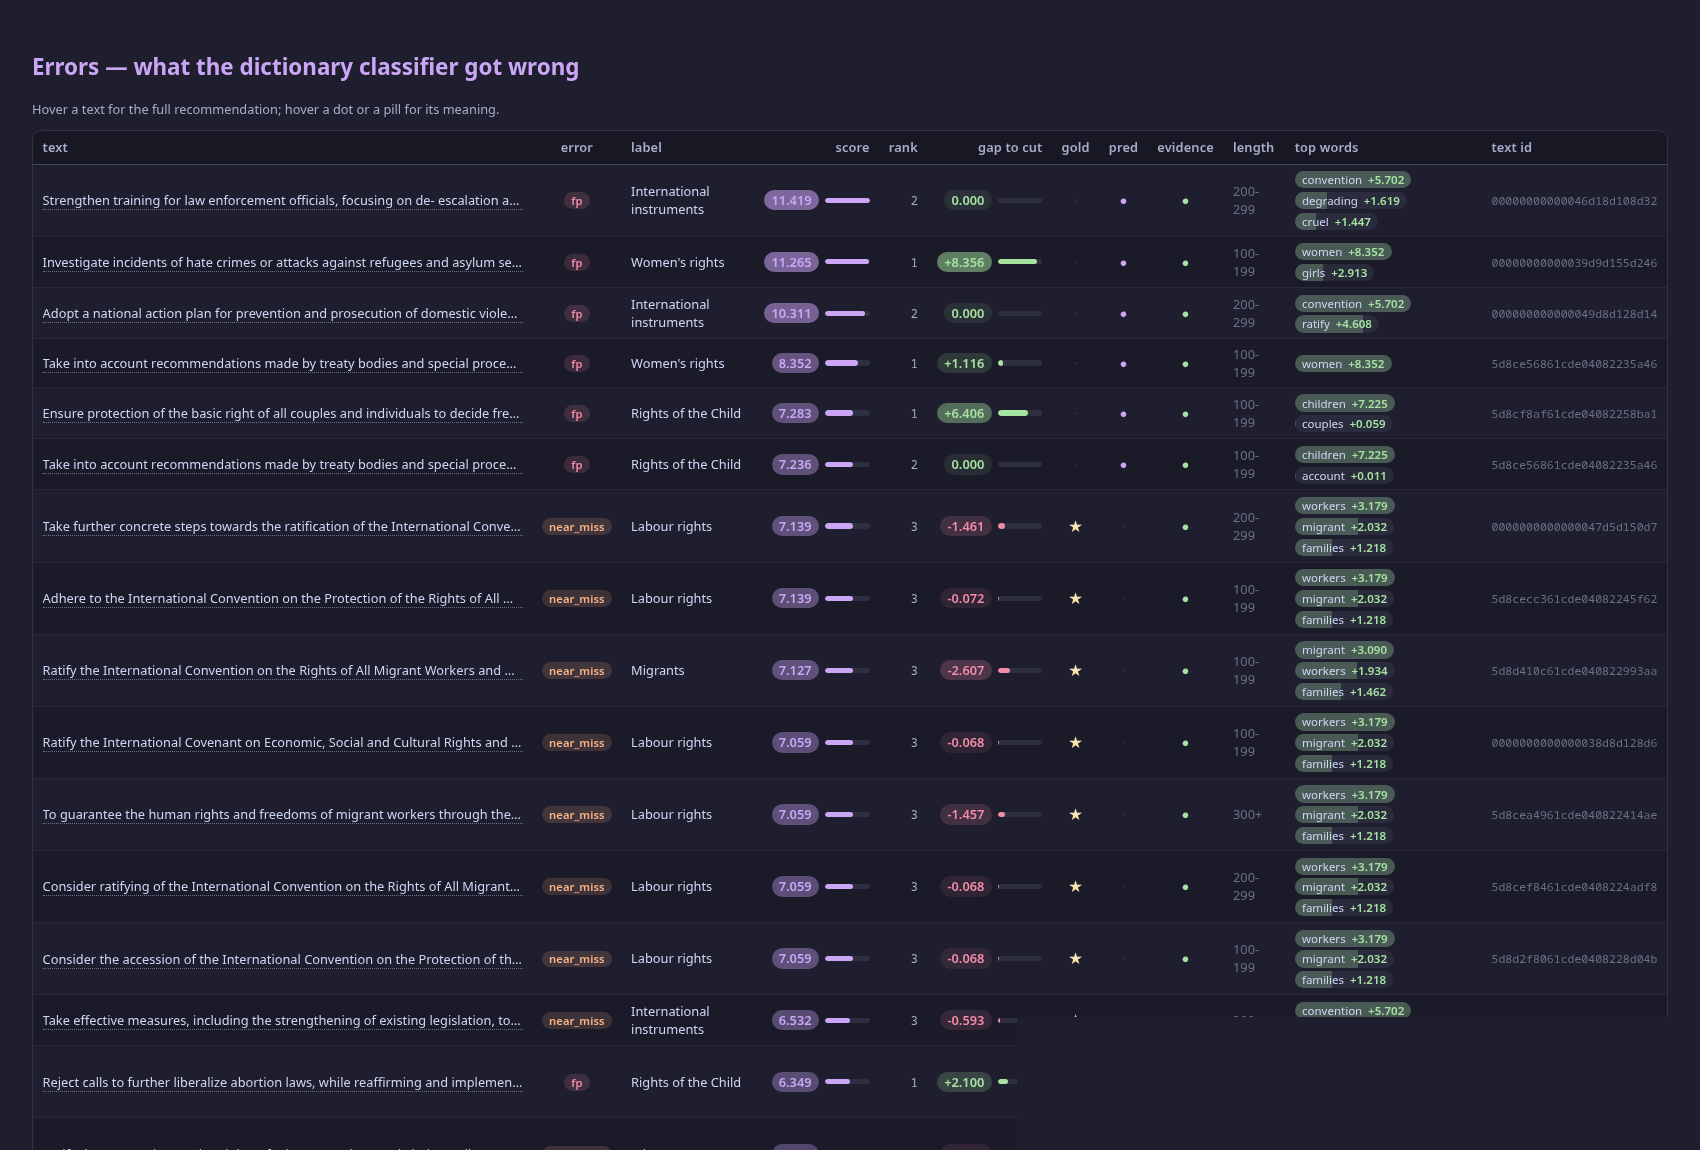
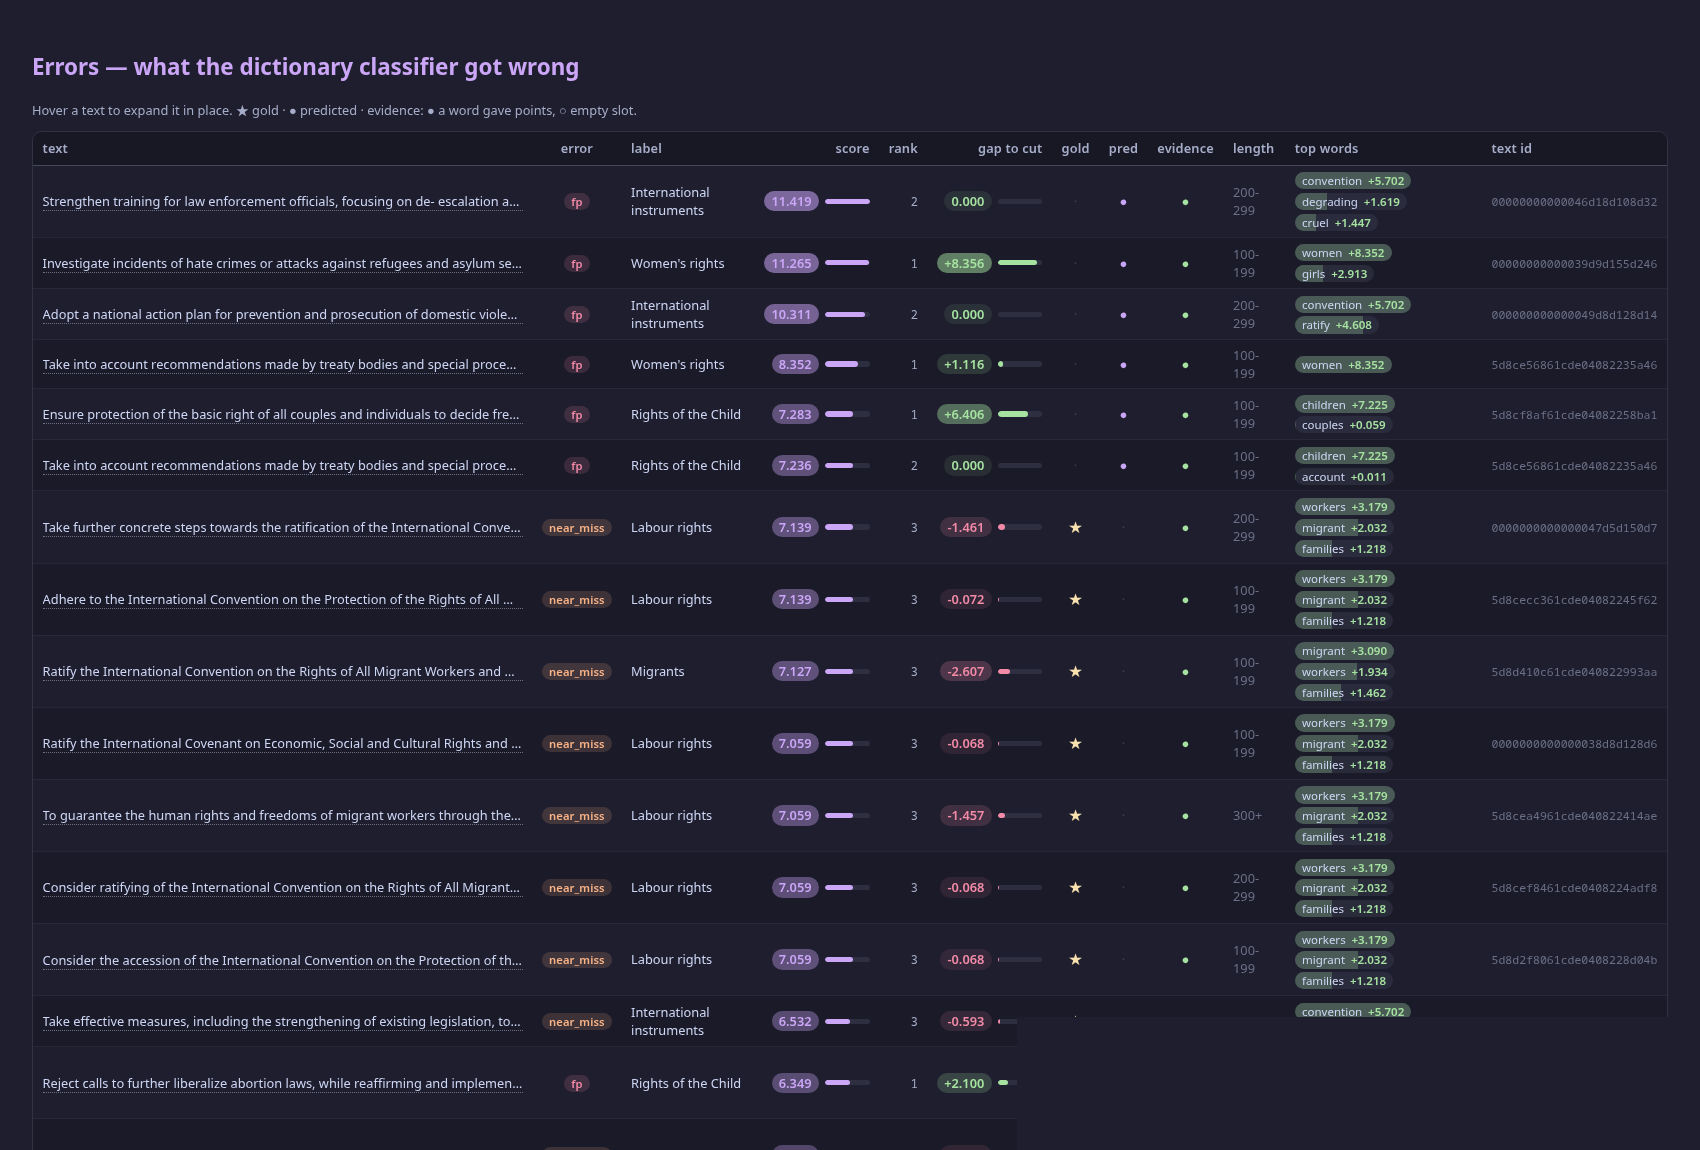
Fix: expand the error-view text in place instead of a tooltip

diff --git a/tools/error_app.css b/tools/error_app.css
@@ -39,7 +39,9 @@ a { color: var(--ctp-blue); }
 .ev-table tbody tr:hover { background: rgba(49, 50, 68, 0.55); }
 .ev-table tbody tr:last-child td { border-bottom: 0; }
 .ev-empty { color: var(--ctp-overlay0); text-align: center; padding: 0.8rem; }
-.ev-text { display: inline-block; max-width: 30rem; overflow: hidden; text-overflow: ellipsis; white-space: nowrap; vertical-align: middle; cursor: help; border-bottom: 1px dotted var(--ctp-overlay0); }
+.ev-text { display: inline-block; max-width: 30rem; overflow: hidden; text-overflow: ellipsis; white-space: nowrap; vertical-align: middle; cursor: zoom-in; border-bottom: 1px dotted var(--ctp-overlay0); }
+.ev-text:hover { max-width: 44rem; overflow: visible; text-overflow: clip; white-space: normal; cursor: zoom-out; }
+.ev-table tbody tr:hover .ev-text { border-bottom-color: var(--ctp-blue); }
 .ev-id { color: var(--ctp-overlay0); font-family: "JetBrains Mono", "Fira Code", monospace; font-size: 0.72rem; }
 .ev-muted { color: var(--ctp-overlay0); }
 .ev-rank { color: var(--ctp-subtext0); font-family: "JetBrains Mono", "Fira Code", monospace; font-size: 0.74rem; }

diff --git a/tools/error_app.py b/tools/error_app.py
@@ -148,52 +148,32 @@ def _esc(value: object) -> str:
     return html_lib.escape(str(value), quote=True)
 
 
-def _tooltip_text(text: str, limit: int = 130) -> str:
-    """The text as a truncated, hoverable cell (the full text is the tooltip)."""
-    cleaned = " ".join(text.split())
-    shown = cleaned if len(cleaned) <= limit else cleaned[: limit - 1].rstrip() + "…"
-    return f'<span class="ev-text" title="{_esc(cleaned)}">{_esc(shown)}</span>'
+def _expandable_text(text: str) -> str:
+    """The full text in a cell clipped by CSS; hovering it expands it in place."""
+    return f'<span class="ev-text">{_esc(" ".join(text.split()))}</span>'
 
 
-def _dot(active: bool, tone: str, *, on: str = "●", off: str = "·", title: str = "") -> str:
+def _dot(active: bool, tone: str, *, on: str = "●", off: str = "·") -> str:
     """A boolean as a coloured dot (a read-only indicator, never a checkbox)."""
     css = f"ev-dot ev-dot-{tone}" if active else "ev-dot ev-dot-off"
-    return f'<span class="{css}" title="{_esc(title)}">{on if active else off}</span>'
+    return f'<span class="{css}">{on if active else off}</span>'
 
 
 def _gold_dot(active: bool) -> str:
     """The gold flag: a gold star, or a dim dot."""
-    return _dot(
-        active,
-        "gold",
-        on="★",
-        off="·",
-        title="gold label" if active else "not a gold label",
-    )
+    return _dot(active, "gold", on="★", off="·")
 
 
 def _predicted_dot(active: bool) -> str:
     """The prediction flag: a mauve dot, or a dim dot."""
-    return _dot(
-        active,
-        "mauve",
-        on="●",
-        off="·",
-        title="the classifier's pick" if active else "not predicted",
-    )
+    return _dot(active, "mauve", on="●", off="·")
 
 
 def _evidence_dot(active: bool) -> str:
     """The evidence flag: a green dot, or the amber empty-slot ring."""
     if active:
-        return (
-            '<span class="ev-dot ev-dot-green" '
-            'title="a word of this text gave the label points">●</span>'
-        )
-    return (
-        '<span class="ev-dot ev-dot-amber" '
-        'title="empty slot: the score is 0, the pick is a tie-break">○</span>'
-    )
+        return '<span class="ev-dot ev-dot-green">●</span>'
+    return '<span class="ev-dot ev-dot-amber">○</span>'
 
 
 def _error_badge(error: str) -> str:
@@ -264,7 +244,7 @@ def _word_pills(entries: list[tuple[str, float]], maximum: float) -> str:
     for word, z_score in entries:
         ratio = min(abs(z_score) / maximum, 1.0) if maximum > 0.0 else 0.0
         pills.append(
-            f'<span class="ev-pill" title="{_esc(word)} z={z_score:+.3f}">'
+            f'<span class="ev-pill">'
             f'<span class="ev-pill-fill" style="width: {ratio * 100:.1f}%"></span>'
             f'<span class="ev-pill-text">{_esc(word)} <b>{z_score:+.3f}</b></span></span>'
         )
@@ -409,7 +389,7 @@ def errors_view(
         max_word = max((z for _, z in entries), default=1.0)
         rows.append(
             [
-                _tooltip_text(lookup.get(record["text_id"], record["text"])),
+                _expandable_text(lookup.get(record["text_id"], record["text"])),
                 _error_badge(str(record["error"])),
                 _esc(record["label"]),
                 _meter(float(record["score"]), max_score, tone="score"),
@@ -472,8 +452,8 @@ def errors_view(
         unsafe_allow_html=True,
     )
     st.caption(
-        "Hover a text for the full recommendation; hover a dot or a pill for its meaning. "
-        "★ gold · ● predicted · evidence: ● a word gave points, ○ empty slot."
+        "Hover a text to expand it in place. ★ gold · ● predicted · "
+        "evidence: ● a word gave points, ○ empty slot."
     )
     if not frame.empty:
         choices = list(dict.fromkeys(frame["text_id"]))
@@ -938,7 +918,7 @@ def compare_view(
     for record in records:
         table_rows.append(
             [
-                _tooltip_text(lookup.get(record["text_id"], "")),
+                _expandable_text(lookup.get(record["text_id"], "")),
                 _meter(float(record["delta_f1"]), max_delta, signed=True),
                 _chip(float(record["f1_a"]), 1.0, tone="neutral"),
                 _chip(float(record["f1_b"]), 1.0, tone="neutral"),

diff --git a/tests/test_error_app.py b/tests/test_error_app.py
@@ -92,7 +92,8 @@ def test_the_errors_view_lists_a_mistake(fixture: Any, monkeypatch: pytest.Monke
         'has_evidence|length_bucket|top_words|text_id"'
     ) in shown
     # the cells are the read-only diagnostics, not plain text
-    assert 'title="alpha beta"' in shown  # the full text is the tooltip
+    assert "ev-text" in shown  # the text expands in place on hover
+    assert "title=" not in shown  # no tooltip attribute
     assert "ev-pill" in shown  # the contributing words
     assert "ev-dot" in shown  # the booleans
 
@@ -216,10 +217,12 @@ def test_the_signed_value_colours_are_catppuccin() -> None:
 def test_the_cells_are_read_only_diagnostics() -> None:
     """The cells carry HTML, not checkbox-looking booleans or plain text."""
     module = _app_module()
-    tooltip = module._tooltip_text("A long recommendation " * 20)
-    assert tooltip.startswith('<span class="ev-text"')
-    assert 'title="A long recommendation' in tooltip
-    assert "…" in tooltip
+    text = module._expandable_text("A long recommendation " * 20)
+    assert text.startswith('<span class="ev-text"')
+    assert "title=" not in text
+    # the full text is in the cell: the CSS clips it, and hover expands it
+    assert "A long recommendation A long recommendation" in text
+    assert "…" not in text
     assert "★" in module._gold_dot(True)
     assert "ev-dot-off" in module._gold_dot(False)
     assert "○" in module._evidence_dot(False)
@@ -242,3 +245,5 @@ def test_the_stylesheet_carries_the_table_look() -> None:
     assert ".ev-pill" in css
     assert ".ev-chip" in css
     assert ".ev-dot" in css
+    assert ".ev-text:hover" in css
+    assert "white-space: normal" in css

diff --git a/docs/error_viewer.md b/docs/error_viewer.md
@@ -278,9 +278,13 @@ pipeline. If a real discrepancy appears, it is reported, not fixed.
 ## V1 screenshot
 
 The Errors view, rendered from the app's own HTML (UPR val, `k=2`). The text
-cell truncates and its full recommendation is the hover tooltip; the error
+cell truncates and **expands in place** when hovered (no tooltip); the error
 badges, score/gap chips, boolean dots and contributing-word pills are
 read-only. The colour scheme is Catppuccin Mocha (`.streamlit/config.toml` and
 `tools/error_app.css`).
 
 ![The Errors view](error_viewer_errors.png)
+
+Hovering a text expands it in place — the first row, expanded:
+
+![The Errors view, one text expanded](error_viewer_errors_hover.png)
